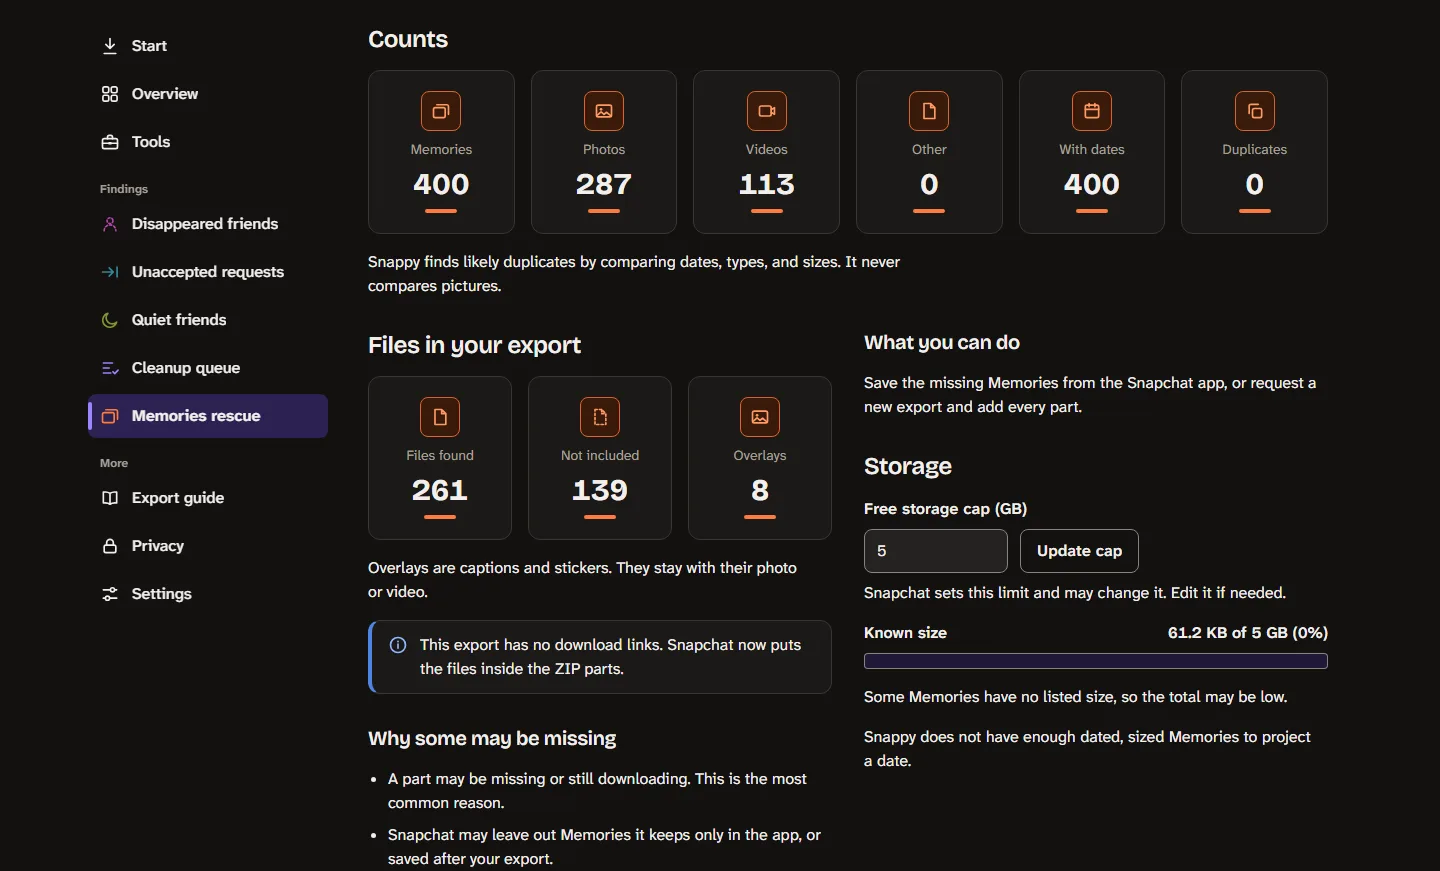
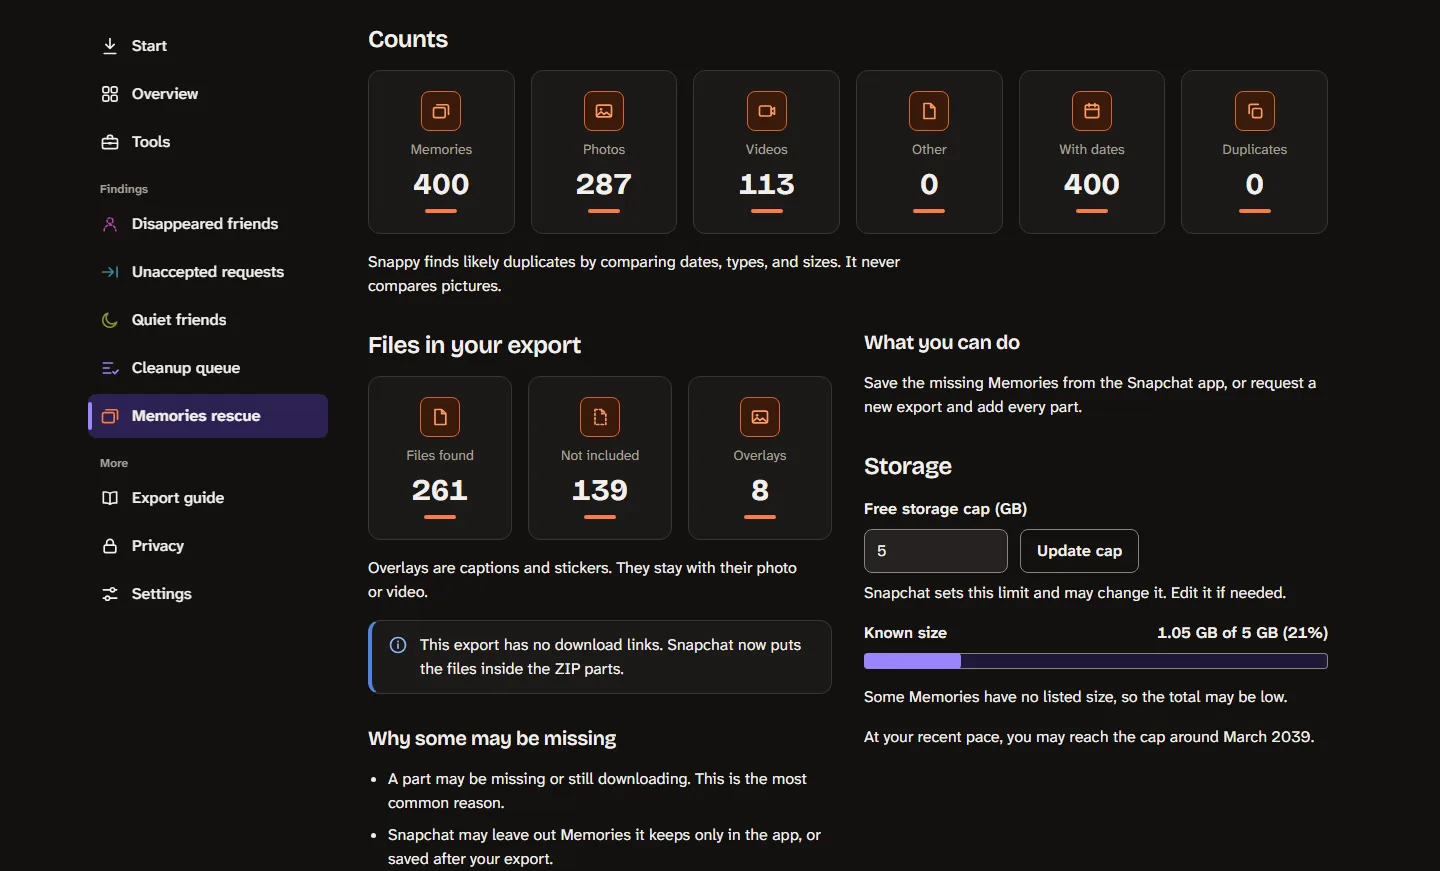
407: Refresh the Memories rescue pictures with sample storage sizes

Changed region(s): [[0.5938, 0.837, 0.9062, 0.899], [0.8125, 0.713, 0.9062, 0.744], [0.5938, 0.744, 0.6875, 0.775]]

diff --git a/docs/images/README.md b/docs/images/README.md
@@ -1,6 +1,6 @@
 # Screenshots
 
-Every image in this folder is a real capture of the built dashboard showing Snappy’s built-in sample data (“Use sample data”): invented friends such as `ghost_1`, made by the synthetic generator in `packages/core`. None comes from a real account, and none shows a browser window or a desktop. The README uses a few of them.
+Every image in this folder is a real capture of the built dashboard showing Snappy’s built-in sample data (“Use sample data”): invented friends such as `ghost_1`, made by the synthetic generator in `packages/core`. None comes from a real account, and none shows a browser window or a desktop. The README uses a few of them. The sample’s Memories files declare sizes of a few megabytes without holding that much data, so the storage meter has numbers to show.
 
 They are made by a script, so they can be refreshed when the screens change.
 
